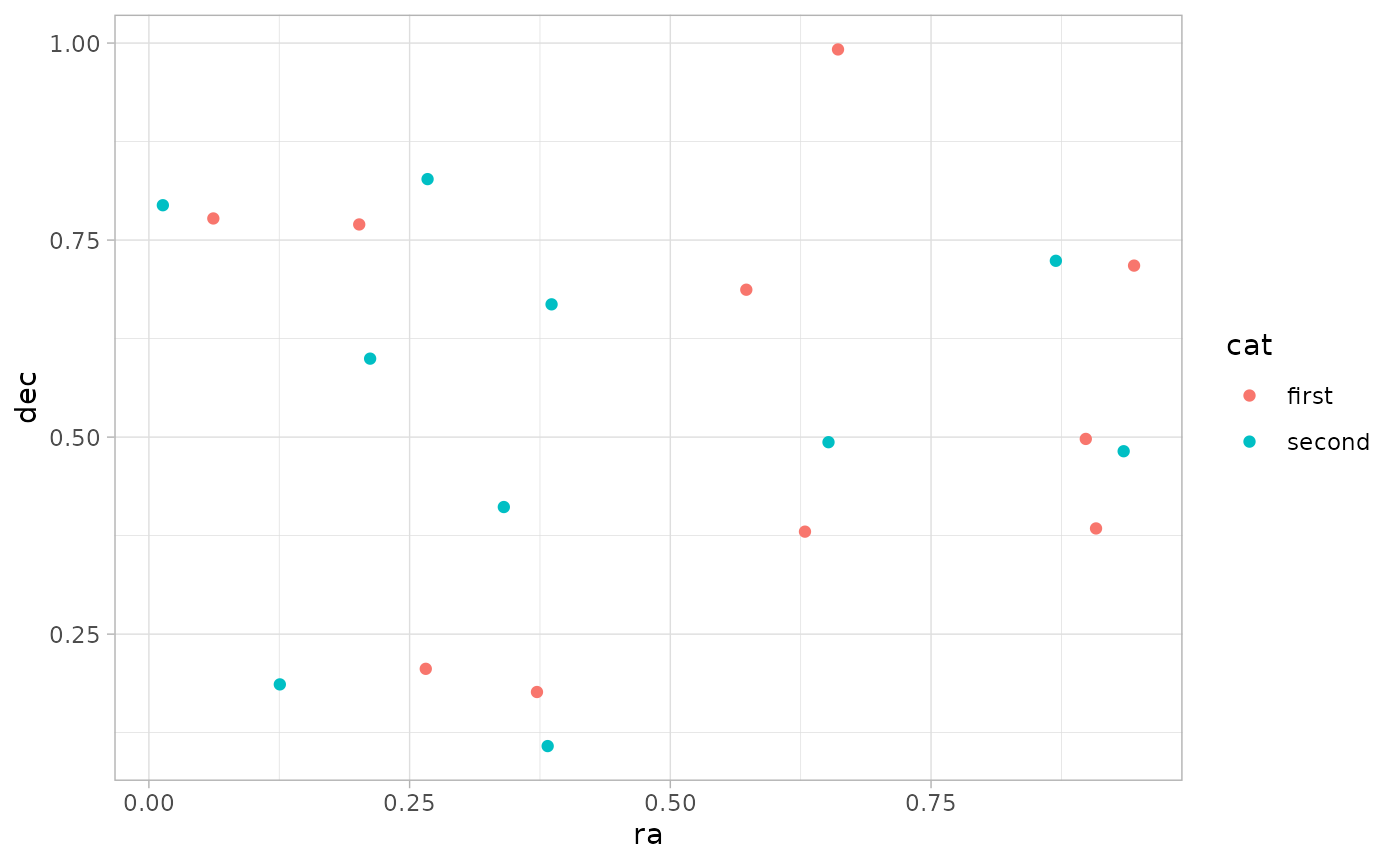
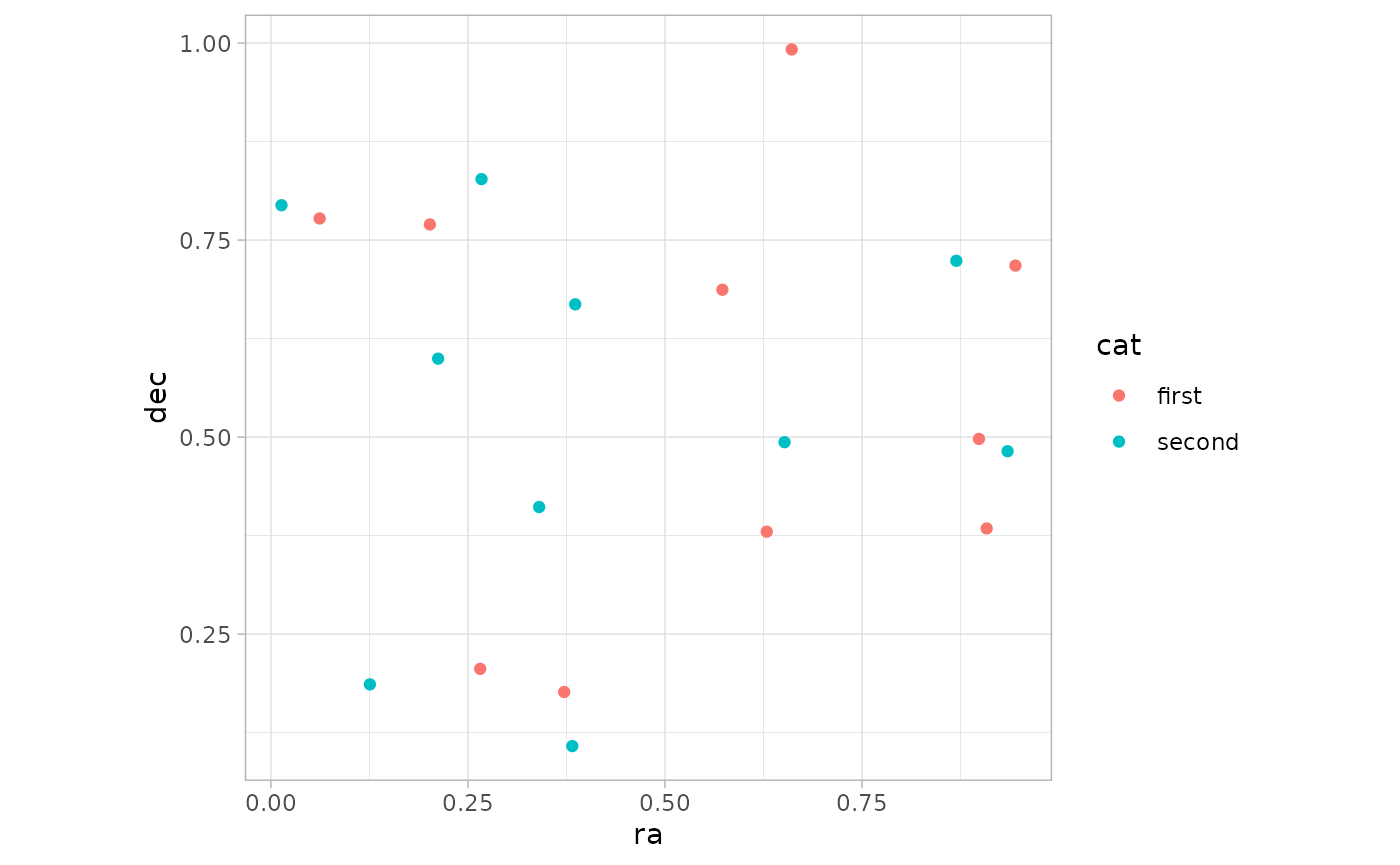
Deploying to gh-pages from @ uskovgs/astrocoords@2a46a784519afd76442c7165fd32affdbf584fc5 🚀

diff --git a/articles/coord_matching.html b/articles/coord_matching.html
@@ -132,7 +132,8 @@ while <code>multiple = "closest"</code> keeps only one match per row in
 <span></span>
 <span><span class="va">p1</span> <span class="op">&lt;-</span> <span class="va">df12</span> <span class="op">|&gt;</span></span>
 <span>  <span class="fu"><a href="https://ggplot2.tidyverse.org/reference/ggplot.html" class="external-link">ggplot</a></span><span class="op">(</span><span class="fu"><a href="https://ggplot2.tidyverse.org/reference/aes.html" class="external-link">aes</a></span><span class="op">(</span><span class="va">ra</span>, <span class="va">dec</span>, color <span class="op">=</span> <span class="va">cat</span><span class="op">)</span><span class="op">)</span> <span class="op">+</span></span>
-<span>  <span class="fu"><a href="https://ggplot2.tidyverse.org/reference/geom_point.html" class="external-link">geom_point</a></span><span class="op">(</span><span class="op">)</span> </span>
+<span>  <span class="fu"><a href="https://ggplot2.tidyverse.org/reference/geom_point.html" class="external-link">geom_point</a></span><span class="op">(</span><span class="op">)</span> <span class="op">+</span></span>
+<span>  <span class="fu"><a href="https://ggplot2.tidyverse.org/reference/coord_fixed.html" class="external-link">coord_fixed</a></span><span class="op">(</span>ratio <span class="op">=</span> <span class="fl">1</span><span class="op">)</span></span>
 <span><span class="va">p1</span></span></code></pre></div>
 <p><img src="coord_matching_files/figure-html/unnamed-chunk-2-1.png" class="r-plt" alt="" width="700"></p>
 <div class="section level3">
@@ -334,7 +335,11 @@ while <code>multiple = "closest"</code> keeps only one match per row in
 <span>    inherit.aes <span class="op">=</span> <span class="cn">FALSE</span></span>
 <span>  <span class="op">)</span></span></code></pre></div>
 <p><img src="coord_matching_files/figure-html/unnamed-chunk-9-1.png" class="r-plt" alt="" width="700"></p>
-<p><code>multiple="closest"</code></p>
+</div>
+<div class="section level3">
+<h3 id="multipleclosest">
+<code>multiple="closest"</code><a class="anchor" aria-label="anchor" href="#multipleclosest"></a>
+</h3>
 <div class="sourceCode" id="cb10"><pre class="downlit sourceCode r">
 <code class="sourceCode R"><span><span class="va">df12_intersect</span> <span class="op">&lt;-</span> <span class="va">df1</span> <span class="op">|&gt;</span></span>
 <span>  <span class="fu"><a href="../reference/coord_left_join.html">coord_inner_join</a></span><span class="op">(</span><span class="va">df2</span>, max_sep <span class="op">=</span> <span class="va">MAX_SEP</span>, unit <span class="op">=</span> <span class="st">"arcmin"</span>, multiple <span class="op">=</span> <span class="st">"closest"</span><span class="op">)</span></span>

diff --git a/articles/coord_matching.md b/articles/coord_matching.md
@@ -50,7 +50,8 @@ df12$sc <- c(df1$sc, df2$sc)
 
 p1 <- df12 |>
   ggplot(aes(ra, dec, color = cat)) +
-  geom_point() 
+  geom_point() +
+  coord_fixed(ratio = 1)
 p1
 ```
 
@@ -263,7 +264,7 @@ p1 +
 
 ![](coord_matching_files/figure-html/unnamed-chunk-9-1.png)
 
-`multiple="closest"`
+### `multiple="closest"`
 
 ``` r
 df12_intersect <- df1 |>
